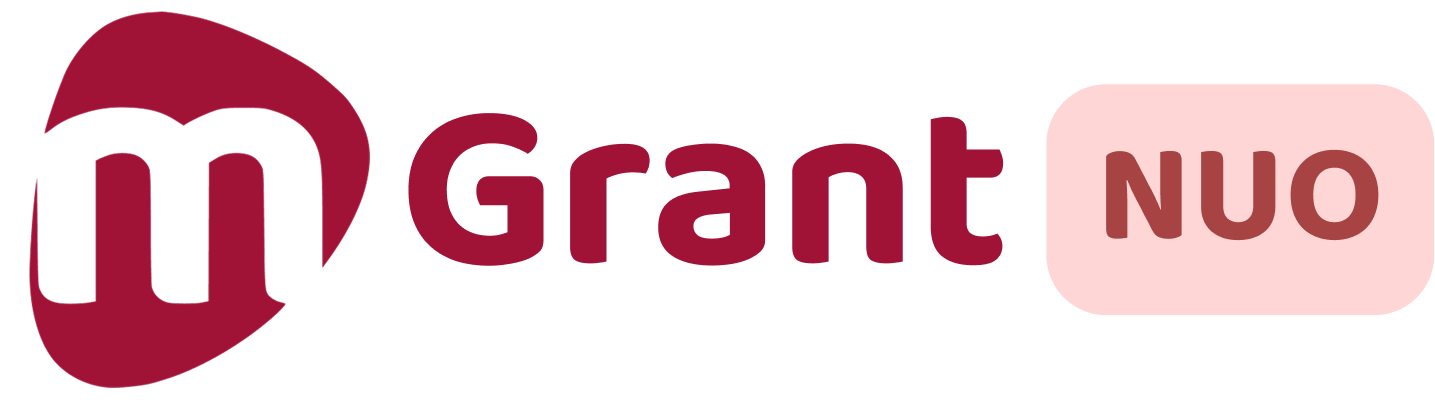
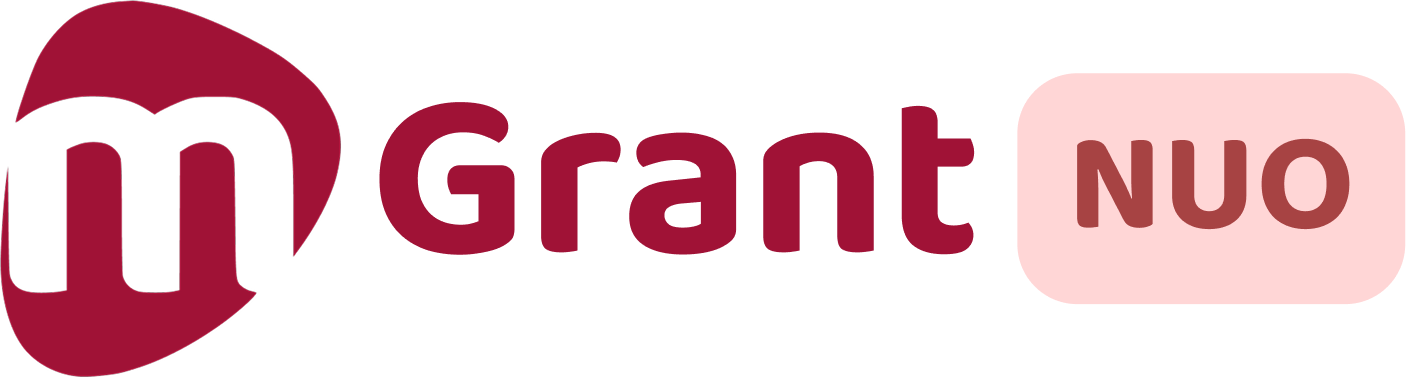
Footer column widths, mgrant-nuo asset refresh, copy consistency pass
Widens the footer's first column (logo/tagline) and narrows the rest
slightly (1.45/1.05/1.15/1.05/1fr -> 1.9/1/1.1/1.15/1fr) sitewide - the
tagline was wrapping awkwardly at the old ratio.

Updates every reference to the regenerated mgrant-nuo asset dimensions
(1435x400 -> 1406x378) so width/height attributes match the actual
file and stop the browser reserving the wrong aspect ratio.

Rest is copy consistency, matching phrasing already applied elsewhere:
"Learn more" replaces repeating the card's own title as its own link
text on Who We Serve; a few product descriptions gain the same
"multilingual" / "DPDP-ready" / stat-employed wording used on other
pages; solutions.html's tab label and lede copy shortened to match.

diff --git a/solutions.html b/solutions.html
@@ -164,6 +164,9 @@ footer ul{list-style:none}footer li{margin-bottom:10px}footer li a{font-size:.88
 
 .ocard .prod-badge{background:none;border-radius:0;height:clamp(38px,4.6vw,50px);flex:none;display:flex;align-items:center;justify-content:center}
 .ocard .prod-badge img{height:clamp(28px,3.4vw,38px);width:auto;max-width:100%;object-fit:contain}
+/* wordmark logos are wider than the 52px icon chip they'd otherwise inherit, so drop the
+   chip's fixed width and grey background for the badge and let the mark render at its own size */
+.ocard .ic:has(.prod-badge){width:auto;background:none;padding:0;justify-content:flex-start}
 
 /* solutions sidebar rail */
 .rlayout{display:grid;grid-template-columns:230px 1fr;gap:40px;align-items:start;margin-top:36px}
@@ -248,7 +251,7 @@ a.rcard:hover .tlink .arw{transform:none}}
 /* footer */
 footer{background:var(--ink);color:var(--muted-d);border-radius:28px;margin:16px;padding:30px 0 14px}
 footer .wrap{max-width:none;padding:0 24px}
-.fgrid{display:grid;grid-template-columns:1.45fr 1.05fr 1.15fr 1.05fr 1fr;gap:30px;align-items:start}
+.fgrid{display:grid;grid-template-columns:1.9fr 1fr 1.1fr 1.15fr 1fr;gap:26px;align-items:start}
 .fgrid ul,.fgrid li{list-style:none;margin:0;padding:0}
 .fgrid li{margin-bottom:3px;line-height:1.3}
 .fgrid li a{font-size:.825rem}
@@ -472,7 +475,7 @@ window.DHWANI_FORMS = {
   <div class="rlayout">
     <div class="rrail" role="tablist">
       <button class="rtab" data-tab="products"><svg width="18" height="18" viewBox="0 0 24 24" fill="none" stroke="currentColor" stroke-width="1.6" stroke-linecap="round" stroke-linejoin="round"><path d="M12 2 3 7v10l9 5 9-5V7z"/><path d="M3 7l9 5 9-5M12 22V12"/></svg><span>Products</span></button>
-      <button class="rtab" data-tab="systems"><svg width="18" height="18" viewBox="0 0 24 24" fill="none" stroke="currentColor" stroke-width="1.6" stroke-linecap="round" stroke-linejoin="round"><rect x="3" y="3" width="18" height="18" rx="2"/><path d="M3 9h18M9 21V9"/></svg><span>Systems we build</span></button>
+      <button class="rtab" data-tab="systems"><svg width="18" height="18" viewBox="0 0 24 24" fill="none" stroke="currentColor" stroke-width="1.6" stroke-linecap="round" stroke-linejoin="round"><rect x="3" y="3" width="18" height="18" rx="2"/><path d="M3 9h18M9 21V9"/></svg><span>Systems</span></button>
       <button class="rtab" data-tab="consulting"><svg width="18" height="18" viewBox="0 0 24 24" fill="none" stroke="currentColor" stroke-width="1.6" stroke-linecap="round" stroke-linejoin="round"><path d="M12 2l8 3v6c0 5-3.4 8.5-8 11-4.6-2.5-8-6-8-11V5z"/><path d="M9 12l2 2 4-4"/></svg><span>Consulting &amp; advisory</span></button>
       <button class="rtab" data-tab="sectors"><svg width="18" height="18" viewBox="0 0 24 24" fill="none" stroke="currentColor" stroke-width="1.6" stroke-linecap="round" stroke-linejoin="round"><path d="M12 2 2 7l10 5 10-5-10-5Z"/><path d="M2 12l10 5 10-5M2 17l10 5 10-5"/></svg><span>Browse by sector</span></button>
       <button class="rtab" data-tab="functions"><svg width="18" height="18" viewBox="0 0 24 24" fill="none" stroke="currentColor" stroke-width="1.6" stroke-linecap="round" stroke-linejoin="round"><rect x="2" y="4" width="20" height="6" rx="1.5"/><rect x="2" y="14" width="20" height="6" rx="1.5"/><path d="M6 7h.01M6 17h.01"/></svg><span>Browse by function</span></button>
@@ -480,12 +483,12 @@ window.DHWANI_FORMS = {
     <div class="rpanels">
 
       <div class="rgroup" id="products">
-                <p class="lede" style="margin-top:0;margin-bottom:18px">Platforms that already exist and are already running across the sector. You configure them to your programme rather than build from scratch.</p>
+                <p class="sec-note" style="margin-top:0;margin-bottom:18px">Platforms that already exist and are already running across the sector. You configure them to your programme rather than build from scratch.</p>
         <div class="cgrid">
           <a class="ocard" href="mgrant-donors.html"><span class="ic"><span class="prod-badge"><img src="assets/img/products/mgrant-wordmark.png" alt="mGrant logo" width="1012" height="363"></span></span><h5>mGrant for Donors</h5><p>The whole grant life, from RFP to utilisation.</p></a>
-          <a class="ocard" href="mgrant-nonprofits.html"><span class="ic"><span class="prod-badge"><img src="assets/img/products/mgrant-nuo.png" alt="mGrant NUO logo" width="1435" height="400"></span></span><h5>mGrant for Nonprofits</h5><p>Grant and donor management for the grants you receive.</p></a>
-          <a class="ocard" href="mform.html"><span class="ic"><span class="prod-badge"><img src="assets/img/products/mform-wordmark.png" alt="mForm logo" width="912" height="363"></span></span><h5>mForm</h5><p>Offline-first field data, straight into your MIS.</p></a>
-          <a class="ocard" href="anumati.html"><span class="ic"><svg width="26" height="26" viewBox="0 0 24 24" fill="none" stroke="currentColor" stroke-width="1.4" stroke-linecap="round" stroke-linejoin="round"><rect x="4" y="10" width="16" height="11" rx="2"/><path d="M8 10V7a4 4 0 0 1 8 0v3"/><path d="M12 14.5v2"/></svg></span><h5>Anumati</h5><p>DPDP consent management for beneficiary data.</p></a>
+          <a class="ocard" href="mgrant-nonprofits.html"><span class="ic"><span class="prod-badge"><img src="assets/img/products/mgrant-nuo.png" alt="mGrant NUO logo" width="1406" height="378"></span></span><h5>mGrant for Nonprofits</h5><p>Grant and donor management for the grants you receive.</p></a>
+          <a class="ocard" href="mform.html"><span class="ic"><span class="prod-badge"><img src="assets/img/products/mform-wordmark.png" alt="mForm logo" width="912" height="363"></span></span><h5>mForm</h5><p>Offline-first, multilingual field data, straight into your MIS.</p></a>
+          <a class="ocard" href="anumati.html"><span class="ic"><svg width="26" height="26" viewBox="0 0 24 24" fill="none" stroke="currentColor" stroke-width="1.4" stroke-linecap="round" stroke-linejoin="round"><rect x="4" y="10" width="16" height="11" rx="2"/><path d="M8 10V7a4 4 0 0 1 8 0v3"/><path d="M12 14.5v2"/></svg></span><h5>Anumati</h5><p>Consent management for beneficiary data, DPDP-ready.</p></a>
           <a class="ocard" href="radar.html"><span class="ic"><svg width="26" height="26" viewBox="0 0 24 24" fill="none" stroke="currentColor" stroke-width="1.4" stroke-linecap="round" stroke-linejoin="round"><circle cx="12" cy="12" r="9"/><circle cx="12" cy="12" r="4.5"/><path d="M12 12l6.4-4.2"/><circle cx="15.5" cy="8.5" r="1.2" fill="currentColor" stroke="none"/></svg></span><h5>Radar</h5><p>AI-driven due diligence and risk intelligence.</p></a>
         </div>
       </div>
@@ -494,22 +497,22 @@ window.DHWANI_FORMS = {
         <p class="lede" style="margin-top:0;margin-bottom:18px">Built to fit your programme, on foundations we have laid many times before.</p>
         <div class="cgrid">
           <a class="ocard" href="programme-mis.html"><span class="ic"><svg width="26" height="26" viewBox="0 0 24 24" fill="none" stroke="currentColor" stroke-width="1.4" stroke-linecap="round" stroke-linejoin="round"><rect x="3" y="3" width="18" height="18" rx="2"/><path d="M3 9h18M9 21V9"/></svg></span><div class="txt"><h5>Programme MIS</h5><p>Run your whole programme in one system.</p></div></a>
-          <a class="ocard" href="impact-dashboards.html"><span class="ic"><svg width="26" height="26" viewBox="0 0 24 24" fill="none" stroke="currentColor" stroke-width="1.4" stroke-linecap="round" stroke-linejoin="round"><path d="M3 3v18h18"/><path d="M7 14l3-4 3 2 4-6"/></svg></span><div class="txt"><h5>Impact Dashboards</h5><p>Live results for funders and boards.</p></div></a>
+          <a class="ocard" href="impact-dashboards.html"><span class="ic"><svg width="26" height="26" viewBox="0 0 24 24" fill="none" stroke="currentColor" stroke-width="1.4" stroke-linecap="round" stroke-linejoin="round"><path d="M3 3v18h18"/><path d="M7 14l3-4 3 2 4-6"/></svg></span><div class="txt"><h5>Impact Dashboards</h5><p>Live results for funders, boards and nonprofits.</p></div></a>
           <a class="ocard" href="mgrant-donors.html"><img class="pw" src="assets/img/products/mgrant-wordmark.png" alt="Runs on mGrant" width="1012" height="363"><span class="ic"><svg width="26" height="26" viewBox="0 0 24 24" fill="none" stroke="currentColor" stroke-width="1.4" stroke-linecap="round" stroke-linejoin="round"><path d="M14 3v4a1 1 0 0 0 1 1h4"/><path d="M17 21H7a2 2 0 0 1-2-2V5a2 2 0 0 1 2-2h7l5 5v11a2 2 0 0 1-2 2z"/><path d="M9 13h6M9 17h4"/></svg></span><div class="txt"><h5>Grant Management</h5><p>From the first RFP through to utilisation.</p></div></a>
-          <a class="ocard" href="mgrant-nonprofits.html"><img class="pw" src="assets/img/products/mgrant-nuo.png" alt="Runs on mGrant NUO" width="1435" height="400"><span class="ic"><svg width="26" height="26" viewBox="0 0 24 24" fill="none" stroke="currentColor" stroke-width="1.4" stroke-linecap="round" stroke-linejoin="round"><circle cx="9" cy="8" r="3.2"/><path d="M3 20c0-3.3 2.7-6 6-6s6 2.7 6 6"/><path d="M16 5.5a3 3 0 0 1 0 5.5M21 20c0-2.6-1.6-4.9-4-5.8"/></svg></span><div class="txt"><h5>Donor Management</h5><p>Track every donor, grant, and report.</p></div></a>
-          <a class="ocard" href="mform.html"><img class="pw" src="assets/img/products/mform-wordmark.png" alt="Runs on mForm" width="912" height="363"><span class="ic"><svg width="26" height="26" viewBox="0 0 24 24" fill="none" stroke="currentColor" stroke-width="1.4" stroke-linecap="round" stroke-linejoin="round"><rect x="6" y="2" width="12" height="20" rx="2.5"/><path d="M11 18h2"/></svg></span><div class="txt"><h5>Field Data Apps</h5><p>Offline-first data from the field.</p></div></a>
+          <a class="ocard" href="mgrant-nonprofits.html"><img class="pw" src="assets/img/products/mgrant-nuo.png" alt="Runs on mGrant NUO" width="1406" height="378"><span class="ic"><svg width="26" height="26" viewBox="0 0 24 24" fill="none" stroke="currentColor" stroke-width="1.4" stroke-linecap="round" stroke-linejoin="round"><circle cx="9" cy="8" r="3.2"/><path d="M3 20c0-3.3 2.7-6 6-6s6 2.7 6 6"/><path d="M16 5.5a3 3 0 0 1 0 5.5M21 20c0-2.6-1.6-4.9-4-5.8"/></svg></span><div class="txt"><h5>Donor Management</h5><p>Track every donor, grant, and report.</p></div></a>
+          <a class="ocard" href="mform.html"><img class="pw" src="assets/img/products/mform-wordmark.png" alt="Runs on mForm" width="912" height="363"><span class="ic"><svg width="26" height="26" viewBox="0 0 24 24" fill="none" stroke="currentColor" stroke-width="1.4" stroke-linecap="round" stroke-linejoin="round"><rect x="6" y="2" width="12" height="20" rx="2.5"/><path d="M11 18h2"/></svg></span><div class="txt"><h5>Field Data Apps</h5><p>Offline-first, multilingual data from the field.</p></div></a>
           <a class="ocard" href="back-office-it.html"><span class="ic"><svg width="26" height="26" viewBox="0 0 24 24" fill="none" stroke="currentColor" stroke-width="1.4" stroke-linecap="round" stroke-linejoin="round"><rect x="2" y="4" width="20" height="6" rx="1.5"/><rect x="2" y="14" width="20" height="6" rx="1.5"/><path d="M6 7h.01M6 17h.01"/></svg></span><div class="txt"><h5>Back-office IT</h5><p>Finance, HR, fundraising, and your website, connected.</p></div></a>
           <a class="ocard" href="monitoring-evaluation.html"><span class="ic"><svg width="26" height="26" viewBox="0 0 24 24" fill="none" stroke="currentColor" stroke-width="1.4" stroke-linecap="round" stroke-linejoin="round"><circle cx="12" cy="12" r="9"/><circle cx="12" cy="12" r="4.5"/><path d="M12 11.5v1"/></svg></span><div class="txt"><h5>Monitoring &amp; Evaluation</h5><p>Track indicators and outcomes in real time.</p></div></a>
         </div>
       </div>
 
       <div class="rgroup" id="consulting">
-        <p class="lede" style="margin-top:0;margin-bottom:18px">For the problems where the answer is not a system: compliance, cloud, AI, and the roadmap that sequences them. Done by the people who then implement it.</p>
+        <p class="lede" style="margin-top:0;margin-bottom:18px">Advice on compliance, cloud, and AI, and the roadmap that ties them together. The same team then builds what we recommend.</p>
         <div class="cgrid">
           <a class="ocard" href="dpdp-act-readiness.html"><span class="ic"><svg width="26" height="26" viewBox="0 0 24 24" fill="none" stroke="currentColor" stroke-width="1.4" stroke-linecap="round" stroke-linejoin="round"><path d="M12 2l8 3v6c0 5-3.4 8.5-8 11-4.6-2.5-8-6-8-11V5z"/><path d="M9 12l2 2 4-4"/></svg></span><div class="txt"><h5>DPDP Act Readiness</h5><p>Readiness for the Digital Personal Data Protection (DPDP) Act, stage by stage.</p></div></a>
           <a class="ocard" href="cloud-optimisation.html"><span class="ic"><svg width="26" height="26" viewBox="0 0 24 24" fill="none" stroke="currentColor" stroke-width="1.4" stroke-linecap="round" stroke-linejoin="round"><path d="M6 17a4 4 0 0 1 0-8 5.5 5.5 0 0 1 10.6-1.5A3.8 3.8 0 0 1 18 17z"/><path d="M12 12v5M9.5 14.5L12 12l2.5 2.5"/></svg></span><div class="txt"><h5>CloudSahayak</h5><p>Cloud cost, migration and security, on non-profit budgets.</p></div></a>
-          <a class="ocard" href="ai-for-impact.html"><span class="ic"><svg width="26" height="26" viewBox="0 0 24 24" fill="none" stroke="currentColor" stroke-width="1.4" stroke-linecap="round" stroke-linejoin="round"><path d="M12 2l1.8 4.4L18 8l-4.2 1.6L12 14l-1.8-4.4L6 8l4.2-1.6z"/><path d="M18 15l.9 2.1L21 18l-2.1.9L18 21l-.9-2.1L15 18l2.1-.9z"/></svg></span><div class="txt"><h5>AI for Impact</h5><p>AI applied where it removes real work.</p></div></a>
-          <a class="ocard" href="digital-transformation.html"><span class="ic"><svg width="26" height="26" viewBox="0 0 24 24" fill="none" stroke="currentColor" stroke-width="1.4" stroke-linecap="round" stroke-linejoin="round"><path d="M4 20L20 4M9 4h11v11"/></svg></span><div class="txt"><h5>Digital Transformation</h5><p>A roadmap, then the build.</p></div></a>
+          <a class="ocard" href="ai-for-impact.html"><span class="ic"><svg width="26" height="26" viewBox="0 0 24 24" fill="none" stroke="currentColor" stroke-width="1.4" stroke-linecap="round" stroke-linejoin="round"><path d="M12 2l1.8 4.4L18 8l-4.2 1.6L12 14l-1.8-4.4L6 8l4.2-1.6z"/><path d="M18 15l.9 2.1L21 18l-2.1.9L18 21l-.9-2.1L15 18l2.1-.9z"/></svg></span><div class="txt"><h5>AI for Impact</h5><p>AI applied where it removes hours of manual work.</p></div></a>
+          <a class="ocard" href="digital-transformation.html"><span class="ic"><svg width="26" height="26" viewBox="0 0 24 24" fill="none" stroke="currentColor" stroke-width="1.4" stroke-linecap="round" stroke-linejoin="round"><path d="M4 20L20 4M9 4h11v11"/></svg></span><div class="txt"><h5>Digital Transformation</h5><p>Sequenced so you build the right thing first.</p></div></a>
           <a class="ocard" href="programme-management.html"><span class="ic"><svg width="26" height="26" viewBox="0 0 24 24" fill="none" stroke="currentColor" stroke-width="1.4" stroke-linecap="round" stroke-linejoin="round"><path d="M9 11l2 2 4-4"/><rect x="3" y="4" width="18" height="17" rx="2"/><path d="M8 2v4M16 2v4M3 10h18"/></svg></span><div class="txt"><h5>Programme Management Support</h5><p>Embedded PMU capacity for your programme.</p></div></a>
         </div>
       </div>
@@ -548,7 +551,6 @@ window.DHWANI_FORMS = {
 <!-- CASES -->
 <section class="section"><div class="wrap">
   <h2 class="shead">Case studies</h2>
-  <p class="lede">A few of the programmes these solutions run.</p>
   <div class="cases3">
     <a class="ccard" href="our-work.html?case=godrej">
       <div class="ph" data-bg="assets/img/cases/case-csr.jpg"></div>

diff --git a/who-we-serve.html b/who-we-serve.html
@@ -181,7 +181,7 @@ a.rcard:hover .tlink .arw{transform:none}}
 /* footer */
 footer{background:var(--ink);color:var(--muted-d);border-radius:28px;margin:16px;padding:30px 0 14px}
 footer .wrap{max-width:none;padding:0 24px}
-.fgrid{display:grid;grid-template-columns:1.45fr 1.05fr 1.15fr 1.05fr 1fr;gap:30px;align-items:start}
+.fgrid{display:grid;grid-template-columns:1.9fr 1fr 1.1fr 1.15fr 1fr;gap:26px;align-items:start}
 .fgrid ul,.fgrid li{list-style:none;margin:0;padding:0}
 .fgrid li{margin-bottom:3px;line-height:1.3}
 .fgrid li a{font-size:.825rem}
@@ -306,35 +306,35 @@ window.DHWANI_FORMS = {
       <h3>For Donors &amp; CSRs</h3>
       <p>Grant management and portfolio dashboards, and the outcome data underneath, so you can see what the money changed.</p>
       <div class="tags"><span>Grants</span><span>Portfolio dashboards</span><span>Outcomes</span></div>
-      <span class="tlink">For Donors &amp; CSRs <span class="arw">&#8594;</span></span>
+      <span class="tlink">Learn more <span class="arw">&#8594;</span></span>
     </a>
     <a class="scard" href="for-nonprofits.html">
       <span class="ic"><svg width="26" height="26" viewBox="0 0 24 24" fill="none" stroke="currentColor" stroke-width="1.5" stroke-linecap="round" stroke-linejoin="round"><path d="M16 21v-2a4 4 0 0 0-4-4H6a4 4 0 0 0-4 4v2"/><circle cx="9" cy="7" r="4"/><path d="M22 21v-2a4 4 0 0 0-3-3.87"/><path d="M16 3.13a4 4 0 0 1 0 7.75"/></svg></span>
       <h3>For Nonprofits</h3>
       <p>Programme MIS, donor and grant management, and field apps that work offline, systems your own team can run.</p>
       <div class="tags"><span>Programme MIS</span><span>Donor management</span><span>Field apps</span></div>
-      <span class="tlink">For Nonprofits <span class="arw">&#8594;</span></span>
+      <span class="tlink">Learn more <span class="arw">&#8594;</span></span>
     </a>
     <a class="scard" href="for-government.html">
       <span class="ic"><svg width="26" height="26" viewBox="0 0 24 24" fill="none" stroke="currentColor" stroke-width="1.5" stroke-linecap="round" stroke-linejoin="round"><circle cx="12" cy="12" r="9.5"/><path d="M12 2.5a15 15 0 0 1 3.8 9.5A15 15 0 0 1 12 21.5a15 15 0 0 1-3.8-9.5A15 15 0 0 1 12 2.5z"/><path d="M2.5 12h19"/></svg></span>
       <h3>For Government &amp; Multilaterals</h3>
       <p>Digital public infrastructure and goods, built for population scale.</p>
       <div class="tags"><span>digital public infrastructure (DPI)</span><span>digital public goods (DPG)</span><span>Large-scale MIS</span></div>
-      <span class="tlink">For Government &amp; Multilaterals <span class="arw">&#8594;</span></span>
+      <span class="tlink">Learn more <span class="arw">&#8594;</span></span>
     </a>
     <a class="scard" href="for-think-tanks.html">
       <span class="ic"><svg width="26" height="26" viewBox="0 0 24 24" fill="none" stroke="currentColor" stroke-width="1.5" stroke-linecap="round" stroke-linejoin="round"><path d="M22 10L12 5 2 10l10 5 10-5z"/><path d="M6 12v5c0 1 3 3 6 3s6-2 6-3v-5"/></svg></span>
       <h3>For Think Tanks &amp; Consultancies</h3>
       <p>Universities, think tanks, and research programmes. We build the tech that gets you clean, well-governed data to work from: collection, pipelines, and dashboards.</p>
       <div class="tags"><span>Data collection</span><span>Data governance</span><span>Dashboards</span></div>
-      <span class="tlink">For Think Tanks &amp; Consultancies <span class="arw">&#8594;</span></span>
+      <span class="tlink">Learn more <span class="arw">&#8594;</span></span>
     </a>
     <a class="scard" href="for-inclusive-businesses.html">
       <span class="ic"><svg width="24" height="24" viewBox="0 0 24 24" fill="none" stroke="currentColor" stroke-width="1.5" stroke-linecap="round" stroke-linejoin="round"><path d="M9 17H7A5 5 0 0 1 7 7h2"/><path d="M15 7h2a5 5 0 0 1 0 10h-2"/><path d="M8 12h8"/></svg></span>
       <h3>For Inclusive Businesses</h3>
       <p>Companies whose supply chain runs through smallholders, artisans and informal workers.</p>
       <div class="tags"><span>Producer data</span><span>Procurement</span><span>Traceability</span></div>
-      <span class="tlink">For Inclusive Businesses <span class="arw">&#8594;</span></span>
+      <span class="tlink">Learn more <span class="arw">&#8594;</span></span>
     </a>
     <div class="scard scard-alt">
       <span class="ic"><svg width="26" height="26" viewBox="0 0 24 24" fill="none" stroke="currentColor" stroke-width="1.5" stroke-linecap="round" stroke-linejoin="round"><path d="M9.1 9a3 3 0 0 1 5.8 1c0 2-3 3-3 3"/><path d="M12 17h.01"/><circle cx="12" cy="12" r="9"/></svg></span>

diff --git a/for-nonprofits.html b/for-nonprofits.html
@@ -232,7 +232,7 @@ color:var(--muted);background:none;border:0;padding:0;margin:0;backdrop-filter:n
 /* footer */
 footer{background:var(--ink);color:var(--muted-d);border-radius:28px;margin:16px;padding:30px 0 14px}
 footer .wrap{max-width:none;padding:0 24px}
-.fgrid{display:grid;grid-template-columns:1.45fr 1.05fr 1.15fr 1.05fr 1fr;gap:30px;align-items:start}
+.fgrid{display:grid;grid-template-columns:1.9fr 1fr 1.1fr 1.15fr 1fr;gap:26px;align-items:start}
 .fgrid ul,.fgrid li{list-style:none;margin:0;padding:0}
 .fgrid li{margin-bottom:3px;line-height:1.3}
 .fgrid li a{font-size:.825rem}
@@ -458,7 +458,7 @@ window.DHWANI_FORMS = {
     <a class="ocard" href="mform.html"><img class="pw" src="assets/img/products/mform-wordmark.png" alt="Runs on mForm" width="912" height="363"><span class="ic"><svg width="24" height="24" viewBox="0 0 24 24" fill="none" stroke="currentColor" stroke-width="1.5" stroke-linecap="round" stroke-linejoin="round"><rect x="6" y="2" width="12" height="20" rx="2.5"/><path d="M11 18h2"/></svg></span><h5>Field Data Apps</h5><p>Collect data offline anywhere, and sync when you reconnect.</p></a>
     <a class="ocard" href="programme-mis.html"><span class="ic"><svg width="24" height="24" viewBox="0 0 24 24" fill="none" stroke="currentColor" stroke-width="1.5" stroke-linecap="round" stroke-linejoin="round"><rect x="3" y="3" width="18" height="18" rx="2"/><path d="M3 9h18M9 21V9"/></svg></span><h5>Programme MIS</h5><p>Run your whole programme in one system your team can use.</p></a>
     <a class="ocard" href="dpdp-act-readiness.html"><span class="ic"><svg width="24" height="24" viewBox="0 0 24 24" fill="none" stroke="currentColor" stroke-width="1.5" stroke-linecap="round" stroke-linejoin="round"><path d="M12 2l8 3v6c0 5-3.4 8.5-8 11-4.6-2.5-8-6-8-11V5z"/><path d="M9 12l2 2 4-4"/></svg></span><h5>DPDP Act Readiness</h5><p>Readiness for the Digital Personal Data Protection (DPDP) Act, stage by stage.</p></a>
-    <a class="ocard" href="mgrant-nonprofits.html"><img class="pw" src="assets/img/products/mgrant-nuo.png" alt="Runs on mGrant NUO" width="1435" height="400"><span class="ic"><svg width="24" height="24" viewBox="0 0 24 24" fill="none" stroke="currentColor" stroke-width="1.5" stroke-linecap="round" stroke-linejoin="round"><circle cx="9" cy="8" r="3.2"/><path d="M3 20c0-3.3 2.7-6 6-6s6 2.7 6 6"/><path d="M16 5.5a3 3 0 0 1 0 5.5M21 20c0-2.6-1.6-4.9-4-5.8"/></svg></span><h5>Donor Management</h5><p>Track every donor, grant, and report in one place.</p></a>
+    <a class="ocard" href="mgrant-nonprofits.html"><img class="pw" src="assets/img/products/mgrant-nuo.png" alt="Runs on mGrant NUO" width="1406" height="378"><span class="ic"><svg width="24" height="24" viewBox="0 0 24 24" fill="none" stroke="currentColor" stroke-width="1.5" stroke-linecap="round" stroke-linejoin="round"><circle cx="9" cy="8" r="3.2"/><path d="M3 20c0-3.3 2.7-6 6-6s6 2.7 6 6"/><path d="M16 5.5a3 3 0 0 1 0 5.5M21 20c0-2.6-1.6-4.9-4-5.8"/></svg></span><h5>Donor Management</h5><p>Track every donor, grant, and report in one place.</p></a>
     <a class="ocard" href="back-office-it.html"><span class="ic"><svg width="24" height="24" viewBox="0 0 24 24" fill="none" stroke="currentColor" stroke-width="1.5" stroke-linecap="round" stroke-linejoin="round"><rect x="2" y="4" width="20" height="6" rx="1.5"/><rect x="2" y="14" width="20" height="6" rx="1.5"/><path d="M6 7h.01M6 17h.01"/></svg></span><h5>Back-office IT</h5><p>Finance, HR, and IT connected, so the back office stops eating programme time.</p></a>
   </div>
 </div></section>

diff --git a/mgrant-nonprofits.html b/mgrant-nonprofits.html
@@ -236,7 +236,7 @@ padding:10px 18px;text-decoration:none;transition:background .18s}
 /* footer */
 footer{background:var(--ink);color:var(--muted-d);border-radius:28px;margin:16px;padding:30px 0 14px}
 footer .wrap{max-width:none;padding:0 24px}
-.fgrid{display:grid;grid-template-columns:1.45fr 1.05fr 1.15fr 1.05fr 1fr;gap:30px;align-items:start}
+.fgrid{display:grid;grid-template-columns:1.9fr 1fr 1.1fr 1.15fr 1fr;gap:26px;align-items:start}
 .fgrid ul,.fgrid li{list-style:none;margin:0;padding:0}
 .fgrid li{margin-bottom:3px;line-height:1.3}
 .fgrid li a{font-size:.825rem}
@@ -344,7 +344,7 @@ window.DHWANI_FORMS = {
   <div class="bg" style="background-image:url('assets/img/life/full/skoch.jpg')"></div>
   <div class="veil"></div>
   <div class="in">
-    <img class="prodid" src="assets/img/products/mgrant-nuo-white.png" alt="mGrant NUO logo" width="1435" height="400">
+    <img class="prodid" src="assets/img/products/mgrant-nuo-white.png" alt="mGrant NUO logo" width="1406" height="378">
     <h1>Grant management, built for <em>non-profits</em>.</h1>
     <p>One workspace for the grants you receive: fundraising pipeline, project and budget delivery, impact measurement, beneficiary records and Foreign Contribution (Regulation) Act (FCRA) compliance.</p>
     <div class="btns"><a class="pill pill-primary" href="contact.html?topic=brainstorm">Book a session <span class="arw">&#8594;</span></a><a class="prodsite" href="https://mgrant.in" target="_blank" rel="noopener">mgrant.in <span class="arw">&#8594;</span></a></div>

diff --git a/about.html b/about.html
@@ -206,7 +206,7 @@ footer ul{list-style:none}footer li{margin-bottom:10px}footer li a{font-size:.88
 /* footer */
 footer{background:var(--ink);color:var(--muted-d);border-radius:28px;margin:16px;padding:30px 0 14px}
 footer .wrap{max-width:none;padding:0 24px}
-.fgrid{display:grid;grid-template-columns:1.45fr 1.05fr 1.15fr 1.05fr 1fr;gap:30px;align-items:start}
+.fgrid{display:grid;grid-template-columns:1.9fr 1fr 1.1fr 1.15fr 1fr;gap:26px;align-items:start}
 .fgrid ul,.fgrid li{list-style:none;margin:0;padding:0}
 .fgrid li{margin-bottom:3px;line-height:1.3}
 .fgrid li a{font-size:.825rem}
@@ -338,7 +338,7 @@ window.DHWANI_FORMS = {
   <div class="stats">
     <div class="stat"><b>300<span class="pl">+</span></b><span>Projects delivered</span></div>
     <div class="stat"><b>200<span class="pl">+</span></b><span>Organisations equipped</span></div>
-    <div class="stat"><b>100</b><span>ICT4D professionals</span></div>
+    <div class="stat"><b>100</b><span>ICT4D professionals employed</span></div>
     <div class="stat"><b>100<span class="pl">M+</span></b><span>Lives reached*</span></div>
     <div class="stat"><b>6</b><span>Countries</span></div>
   </div>

diff --git a/404.html b/404.html
@@ -168,7 +168,7 @@ footer ul{list-style:none}footer li{margin-bottom:10px}footer li a{font-size:.88
 /* footer */
 footer{background:var(--ink);color:var(--muted-d);border-radius:28px;margin:16px;padding:30px 0 14px}
 footer .wrap{max-width:none;padding:0 24px}
-.fgrid{display:grid;grid-template-columns:1.45fr 1.05fr 1.15fr 1.05fr 1fr;gap:30px;align-items:start}
+.fgrid{display:grid;grid-template-columns:1.9fr 1fr 1.1fr 1.15fr 1fr;gap:26px;align-items:start}
 .fgrid ul,.fgrid li{list-style:none;margin:0;padding:0}
 .fgrid li{margin-bottom:3px;line-height:1.3}
 .fgrid li a{font-size:.825rem}

diff --git a/ai-for-impact.html b/ai-for-impact.html
@@ -289,7 +289,7 @@ color:var(--muted);background:none;border:0;padding:0;margin:0;backdrop-filter:n
 /* footer */
 footer{background:var(--ink);color:var(--muted-d);border-radius:28px;margin:16px;padding:30px 0 14px}
 footer .wrap{max-width:none;padding:0 24px}
-.fgrid{display:grid;grid-template-columns:1.45fr 1.05fr 1.15fr 1.05fr 1fr;gap:30px;align-items:start}
+.fgrid{display:grid;grid-template-columns:1.9fr 1fr 1.1fr 1.15fr 1fr;gap:26px;align-items:start}
 .fgrid ul,.fgrid li{list-style:none;margin:0;padding:0}
 .fgrid li{margin-bottom:3px;line-height:1.3}
 .fgrid li a{font-size:.825rem}

diff --git a/back-office-it.html b/back-office-it.html
@@ -291,7 +291,7 @@ color:var(--muted);background:none;border:0;padding:0;margin:0;backdrop-filter:n
 /* footer */
 footer{background:var(--ink);color:var(--muted-d);border-radius:28px;margin:16px;padding:30px 0 14px}
 footer .wrap{max-width:none;padding:0 24px}
-.fgrid{display:grid;grid-template-columns:1.45fr 1.05fr 1.15fr 1.05fr 1fr;gap:30px;align-items:start}
+.fgrid{display:grid;grid-template-columns:1.9fr 1fr 1.1fr 1.15fr 1fr;gap:26px;align-items:start}
 .fgrid ul,.fgrid li{list-style:none;margin:0;padding:0}
 .fgrid li{margin-bottom:3px;line-height:1.3}
 .fgrid li a{font-size:.825rem}

diff --git a/careers.html b/careers.html
@@ -164,7 +164,7 @@ footer ul{list-style:none}footer li{margin-bottom:10px}footer li a{font-size:.88
 /* footer */
 footer{background:var(--ink);color:var(--muted-d);border-radius:28px;margin:16px;padding:30px 0 14px}
 footer .wrap{max-width:none;padding:0 24px}
-.fgrid{display:grid;grid-template-columns:1.45fr 1.05fr 1.15fr 1.05fr 1fr;gap:30px;align-items:start}
+.fgrid{display:grid;grid-template-columns:1.9fr 1fr 1.1fr 1.15fr 1fr;gap:26px;align-items:start}
 .fgrid ul,.fgrid li{list-style:none;margin:0;padding:0}
 .fgrid li{margin-bottom:3px;line-height:1.3}
 .fgrid li a{font-size:.825rem}

diff --git a/community.html b/community.html
@@ -158,7 +158,7 @@ footer ul{list-style:none}footer li{margin-bottom:10px}footer li a{font-size:.88
 /* footer */
 footer{background:var(--ink);color:var(--muted-d);border-radius:28px;margin:16px;padding:30px 0 14px}
 footer .wrap{max-width:none;padding:0 24px}
-.fgrid{display:grid;grid-template-columns:1.45fr 1.05fr 1.15fr 1.05fr 1fr;gap:30px;align-items:start}
+.fgrid{display:grid;grid-template-columns:1.9fr 1fr 1.1fr 1.15fr 1fr;gap:26px;align-items:start}
 .fgrid ul,.fgrid li{list-style:none;margin:0;padding:0}
 .fgrid li{margin-bottom:3px;line-height:1.3}
 .fgrid li a{font-size:.825rem}

diff --git a/contact.html b/contact.html
@@ -185,7 +185,7 @@ footer ul{list-style:none}footer li{margin-bottom:10px}footer li a{font-size:.88
 /* footer */
 footer{background:var(--ink);color:var(--muted-d);border-radius:28px;margin:16px;padding:30px 0 14px}
 footer .wrap{max-width:none;padding:0 24px}
-.fgrid{display:grid;grid-template-columns:1.45fr 1.05fr 1.15fr 1.05fr 1fr;gap:30px;align-items:start}
+.fgrid{display:grid;grid-template-columns:1.9fr 1fr 1.1fr 1.15fr 1fr;gap:26px;align-items:start}
 .fgrid ul,.fgrid li{list-style:none;margin:0;padding:0}
 .fgrid li{margin-bottom:3px;line-height:1.3}
 .fgrid li a{font-size:.825rem}

diff --git a/digital-transformation.html b/digital-transformation.html
@@ -376,7 +376,7 @@ color:var(--muted);background:none;border:0;padding:0;margin:0;backdrop-filter:n
 /* footer */
 footer{background:var(--ink);color:var(--muted-d);border-radius:28px;margin:16px;padding:30px 0 14px}
 footer .wrap{max-width:none;padding:0 24px}
-.fgrid{display:grid;grid-template-columns:1.45fr 1.05fr 1.15fr 1.05fr 1fr;gap:30px;align-items:start}
+.fgrid{display:grid;grid-template-columns:1.9fr 1fr 1.1fr 1.15fr 1fr;gap:26px;align-items:start}
 .fgrid ul,.fgrid li{list-style:none;margin:0;padding:0}
 .fgrid li{margin-bottom:3px;line-height:1.3}
 .fgrid li a{font-size:.825rem}
